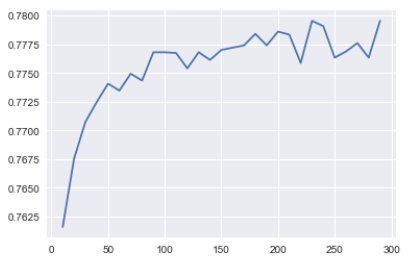
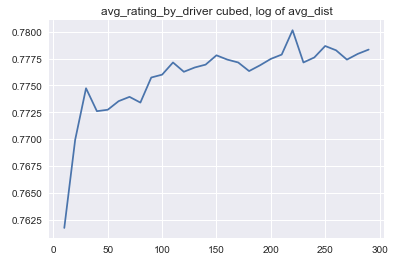
update images, update report

diff --git a/ultimate_challenge/README.md b/ultimate_challenge/README.md
@@ -118,22 +118,28 @@ With no other feature modification, I ran a test of random forest and got a ~.77
 
 I then looked at the most important features (using the `feature_importances_` attribute from sklearn) and found that the top three features were Avg Distance, Average rating by driver, and weekday percentage. 
 
-I decided to focus on modifying these features to see if I could get an improvement in accuracy. Average rating by driver was particularly heavy in the 4.7-5 range, so I decided to cube that metric to give it some breathing room. That seemed to push the accuracy in the higher n_estimator range (>150) close to .780. I attempted to do a similar method with average distance, taking the log instead since the data leaned toward the lower end (less rides). Taking the log did not seem to help model performance, the accuracy curve for varying number of estimators responds slower with the change, so I ended up not keeping that in and resorting to the original data for avg dist. You can see this in the below graphs.
+I decided to focus on modifying these features to see if I could get an improvement in accuracy. Average rating by driver was particularly heavy in the 4.7-5 range, so I decided to cube that metric to give it some breathing room. That seemed to push the accuracy in the higher n_estimator range (>150) close to .780. I attempted to do a similar method with average distance, taking the log instead since the data leaned toward the lower end (less rides). Taking the log improved the accuracy in the same way. The two together resulted in the accuracy curve for varying number of estimators responding slower with the change.
 
-![first run](https://raw.githubusercontent.com/claireramming/Springboard-Mini-Projects/master/ultimate_challenge/imgs/rating_changed_dist_normal.png)
-![first run](https://raw.githubusercontent.com/claireramming/Springboard-Mini-Projects/master/ultimate_challenge/imgs/rating_changed_dist_changed.png)
+![change rating](https://raw.githubusercontent.com/claireramming/Springboard-Mini-Projects/master/ultimate_challenge/imgs/rating_changed_dist_normal.png)
+![change dist](https://raw.githubusercontent.com/claireramming/Springboard-Mini-Projects/master/ultimate_challenge/imgs/rating_normal_dist_changed.png)
+![change both](https://raw.githubusercontent.com/claireramming/Springboard-Mini-Projects/master/ultimate_challenge/imgs/rating_changed_dist_changed.png)
 
-I used accuracy to get a good sense of how my model was doing, but the false positive rate is also an important metric for this case. We want to focus on the true negatives and false positives, a negative indicates a user will most likely not be retained, we want to limit our false positives, since we will be focusing our efforts on getting any predicted negatives to stay. False negatives are not as important since any effort we make will only increase their chances of sticking around, even if it is most likely that they were going to anyway. Here is the confusion matrix from the original model with no feature changes:  
+I used accuracy to get a good sense of how my model was doing, but the false positive rate is also an important metric for this case, and was the deciding factor in which feature change to keep since both together did not lead to the best improvement. We want to focus on the true negatives and false positives, a negative indicates a user will most likely not be retained, we want to limit our false positives, since we will be focusing our efforts on getting any predicted negatives to stay. False negatives are not as important since any effort we make will only increase their chances of sticking around, even if it is most likely that they were going to anyway. Here is the confusion matrix from the original model with no feature changes. The accuracy score is .7778, the false positive rate is .152:  
 
 	[8069, 1454]  
 	[1906, 3571]    
 
-Here is the confusion matrix from the model with the avg rating by driver cubed (no change to avg distance):
+Here is the confusion matrix from the model with the avg rating by driver cubed (no change to avg distance). Accuracy score is .7786, false positive rate is .151:
 
 	[8087, 1436]  
 	[1885, 3592]
 
-A small improvement (took the false positive rate from .152 to .151), but still an improvement.
+Here is the confusion matrix from the model with the log of avg distange. 
+
+	[8096, 1427]
+	[1916, 3561]
+
+This model affects the false positives and true negatives more, but still gives a slightly lower accuracy (.7771) than both previous models, but a lower false positive rate (.1498), so this is the final model (n_estimators set to 150). 
 
 Now that we have a model, Ultimate can use this to increase their retainment rate. Users predicted negative could receive special offers that may convince them to stay. Even though the model did not measure it as most important, King's Landing is the only city with more users retained then lost, so focusing on that city for further analysis to see where other cities could improve and/or targeting discounts to predicted negatives in those cities could also be a next step for ultimate. Finally, there are a lot less android users than iphone users, and android users have a much lower retention rate. This may indicate the android application has bugs or UI issues. 
  
